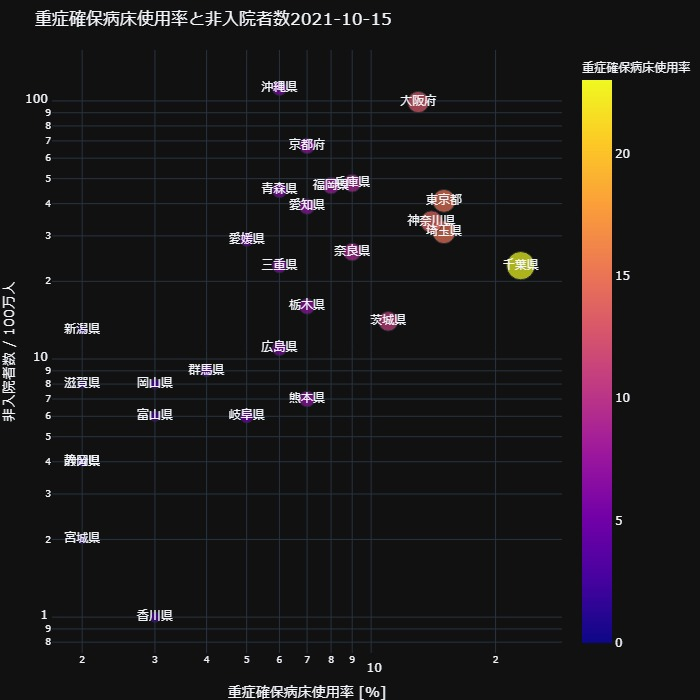
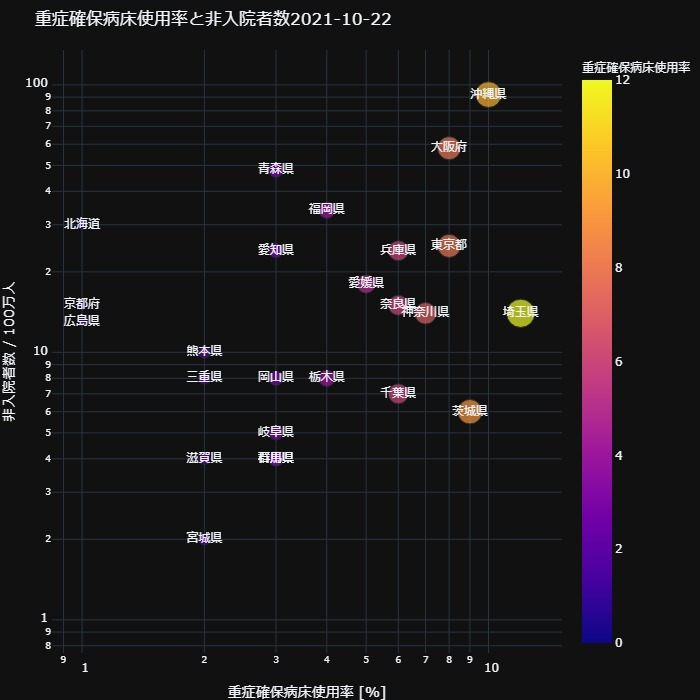
Updated with latest data.

diff --git a/docs/_includes/newpage_00023a.html b/docs/_includes/newpage_00023a.html
@@ -1,1 +1,1 @@
-<div>                            <div id="05f8040f-e205-4a49-960a-4d22efc368e3" class="plotly-graph-div" style="height:700px; width:700px;"></div>            <script type="text/javascript">                                    window.PLOTLYENV=window.PLOTLYENV || {};                                    if (document.getElementById("05f8040f-e205-4a49-960a-4d22efc368e3")) {                    Plotly.newPlot(                        "05f8040f-e205-4a49-960a-4d22efc368e3",                        [{"hovertemplate": "\u91cd\u75c7\u78ba\u4fdd\u75c5\u5e8a\u4f7f\u7528\u7387=%{marker.color}<br>\u975e\u5165\u9662\u6570=%{y}<br>\u90fd\u9053\u5e9c\u770c\u540d=%{text}<extra></extra>", "legendgroup": "", "marker": {"color": [0, 6, 0, 2, 0, 0, 4, 11, 7, 4, 15, 23, 15, 14, 2, 3, 0, 4, 0, 0, 5, 2, 7, 6, 2, 7, 13, 9, 9, 4, 0, 0, 3, 6, 0, 0, 3, 5, 0, 8, 2, 0, 7, 2, 0, 0, 6], "coloraxis": "coloraxis", "size": [0, 6, 0, 2, 0, 0, 4, 11, 7, 4, 15, 23, 15, 14, 2, 3, 0, 4, 0, 0, 5, 2, 7, 6, 2, 7, 13, 9, 9, 4, 0, 0, 3, 6, 0, 0, 3, 5, 0, 8, 2, 0, 7, 2, 0, 0, 6], "sizemode": "area", "sizeref": 0.0575, "symbol": "circle"}, "mode": "markers+text", "name": "", "orientation": "v", "showlegend": false, "text": ["\u5317\u6d77\u9053", "\u9752\u68ee\u770c", "\u5ca9\u624b\u770c", "\u5bae\u57ce\u770c", "\u79cb\u7530\u770c", "\u5c71\u5f62\u770c", "\u798f\u5cf6\u770c", "\u8328\u57ce\u770c", "\u6803\u6728\u770c", "\u7fa4\u99ac\u770c", "\u57fc\u7389\u770c", "\u5343\u8449\u770c", "\u6771\u4eac\u90fd", "\u795e\u5948\u5ddd\u770c", "\u65b0\u6f5f\u770c", "\u5bcc\u5c71\u770c", "\u77f3\u5ddd\u770c", "\u798f\u4e95\u770c", "\u5c71\u68a8\u770c", "\u9577\u91ce\u770c", "\u5c90\u961c\u770c", "\u9759\u5ca1\u770c", "\u611b\u77e5\u770c", "\u4e09\u91cd\u770c", "\u6ecb\u8cc0\u770c", "\u4eac\u90fd\u5e9c", "\u5927\u962a\u5e9c", "\u5175\u5eab\u770c", "\u5948\u826f\u770c", "\u548c\u6b4c\u5c71\u770c", "\u9ce5\u53d6\u770c", "\u5cf6\u6839\u770c", "\u5ca1\u5c71\u770c", "\u5e83\u5cf6\u770c", "\u5c71\u53e3\u770c", "\u5fb3\u5cf6\u770c", "\u9999\u5ddd\u770c", "\u611b\u5a9b\u770c", "\u9ad8\u77e5\u770c", "\u798f\u5ca1\u770c", "\u4f50\u8cc0\u770c", "\u9577\u5d0e\u770c", "\u718a\u672c\u770c", "\u5927\u5206\u770c", "\u5bae\u5d0e\u770c", "\u9e7f\u5150\u5cf6\u770c", "\u6c96\u7e04\u770c"], "type": "scatter", "x": [0, 6, 0, 2, 0, 0, 4, 11, 7, 4, 15, 23, 15, 14, 2, 3, 0, 4, 0, 0, 5, 2, 7, 6, 2, 7, 13, 9, 9, 4, 0, 0, 3, 6, 0, 0, 3, 5, 0, 8, 2, 0, 7, 2, 0, 0, 6], "xaxis": "x", "y": [22, 45, 0, 2, 0, 7, 0, 14, 16, 9, 31, 23, 41, 34, 13, 6, 7, 0, 0, 4, 6, 4, 39, 23, 8, 67, 99, 48, 26, 0, 0, 0, 8, 11, 18, 3, 1, 29, 0, 47, 0, 3, 7, 4, 0, 1, 112], "yaxis": "y"}],                        {"coloraxis": {"colorbar": {"title": {"text": "\u91cd\u75c7\u78ba\u4fdd\u75c5\u5e8a\u4f7f\u7528\u7387"}}, "colorscale": [[0.0, "#0d0887"], [0.1111111111111111, "#46039f"], [0.2222222222222222, "#7201a8"], [0.3333333333333333, "#9c179e"], [0.4444444444444444, "#bd3786"], [0.5555555555555556, "#d8576b"], [0.6666666666666666, "#ed7953"], [0.7777777777777778, "#fb9f3a"], [0.8888888888888888, "#fdca26"], [1.0, "#f0f921"]]}, "height": 700, "legend": {"itemsizing": "constant", "tracegroupgap": 0}, "margin": {"b": 0, "l": 0, "r": 0, "t": 50}, "template": {"data": {"bar": [{"error_x": {"color": "#f2f5fa"}, "error_y": {"color": "#f2f5fa"}, "marker": {"line": {"color": "rgb(17,17,17)", "width": 0.5}}, "type": "bar"}], "barpolar": [{"marker": {"line": {"color": "rgb(17,17,17)", "width": 0.5}}, "type": "barpolar"}], "carpet": [{"aaxis": {"endlinecolor": "#A2B1C6", "gridcolor": "#506784", "linecolor": "#506784", "minorgridcolor": "#506784", "startlinecolor": "#A2B1C6"}, "baxis": {"endlinecolor": "#A2B1C6", "gridcolor": "#506784", "linecolor": "#506784", "minorgridcolor": "#506784", "startlinecolor": "#A2B1C6"}, "type": "carpet"}], "choropleth": [{"colorbar": {"outlinewidth": 0, "ticks": ""}, "type": "choropleth"}], "contour": [{"colorbar": {"outlinewidth": 0, "ticks": ""}, "colorscale": [[0.0, "#0d0887"], [0.1111111111111111, "#46039f"], [0.2222222222222222, "#7201a8"], [0.3333333333333333, "#9c179e"], [0.4444444444444444, "#bd3786"], [0.5555555555555556, "#d8576b"], [0.6666666666666666, "#ed7953"], [0.7777777777777778, "#fb9f3a"], [0.8888888888888888, "#fdca26"], [1.0, "#f0f921"]], "type": "contour"}], "contourcarpet": [{"colorbar": {"outlinewidth": 0, "ticks": ""}, "type": "contourcarpet"}], "heatmap": [{"colorbar": {"outlinewidth": 0, "ticks": ""}, "colorscale": [[0.0, "#0d0887"], [0.1111111111111111, "#46039f"], [0.2222222222222222, "#7201a8"], [0.3333333333333333, "#9c179e"], [0.4444444444444444, "#bd3786"], [0.5555555555555556, "#d8576b"], [0.6666666666666666, "#ed7953"], [0.7777777777777778, "#fb9f3a"], [0.8888888888888888, "#fdca26"], [1.0, "#f0f921"]], "type": "heatmap"}], "heatmapgl": [{"colorbar": {"outlinewidth": 0, "ticks": ""}, "colorscale": [[0.0, "#0d0887"], [0.1111111111111111, "#46039f"], [0.2222222222222222, "#7201a8"], [0.3333333333333333, "#9c179e"], [0.4444444444444444, "#bd3786"], [0.5555555555555556, "#d8576b"], [0.6666666666666666, "#ed7953"], [0.7777777777777778, "#fb9f3a"], [0.8888888888888888, "#fdca26"], [1.0, "#f0f921"]], "type": "heatmapgl"}], "histogram": [{"marker": {"colorbar": {"outlinewidth": 0, "ticks": ""}}, "type": "histogram"}], "histogram2d": [{"colorbar": {"outlinewidth": 0, "ticks": ""}, "colorscale": [[0.0, "#0d0887"], [0.1111111111111111, "#46039f"], [0.2222222222222222, "#7201a8"], [0.3333333333333333, "#9c179e"], [0.4444444444444444, "#bd3786"], [0.5555555555555556, "#d8576b"], [0.6666666666666666, "#ed7953"], [0.7777777777777778, "#fb9f3a"], [0.8888888888888888, "#fdca26"], [1.0, "#f0f921"]], "type": "histogram2d"}], "histogram2dcontour": [{"colorbar": {"outlinewidth": 0, "ticks": ""}, "colorscale": [[0.0, "#0d0887"], [0.1111111111111111, "#46039f"], [0.2222222222222222, "#7201a8"], [0.3333333333333333, "#9c179e"], [0.4444444444444444, "#bd3786"], [0.5555555555555556, "#d8576b"], [0.6666666666666666, "#ed7953"], [0.7777777777777778, "#fb9f3a"], [0.8888888888888888, "#fdca26"], [1.0, "#f0f921"]], "type": "histogram2dcontour"}], "mesh3d": [{"colorbar": {"outlinewidth": 0, "ticks": ""}, "type": "mesh3d"}], "parcoords": [{"line": {"colorbar": {"outlinewidth": 0, "ticks": ""}}, "type": "parcoords"}], "pie": [{"automargin": true, "type": "pie"}], "scatter": [{"marker": {"line": {"color": "#283442"}}, "type": "scatter"}], "scatter3d": [{"line": {"colorbar": {"outlinewidth": 0, "ticks": ""}}, "marker": {"colorbar": {"outlinewidth": 0, "ticks": ""}}, "type": "scatter3d"}], "scattercarpet": [{"marker": {"colorbar": {"outlinewidth": 0, "ticks": ""}}, "type": "scattercarpet"}], "scattergeo": [{"marker": {"colorbar": {"outlinewidth": 0, "ticks": ""}}, "type": "scattergeo"}], "scattergl": [{"marker": {"line": {"color": "#283442"}}, "type": "scattergl"}], "scattermapbox": [{"marker": {"colorbar": {"outlinewidth": 0, "ticks": ""}}, "type": "scattermapbox"}], "scatterpolar": [{"marker": {"colorbar": {"outlinewidth": 0, "ticks": ""}}, "type": "scatterpolar"}], "scatterpolargl": [{"marker": {"colorbar": {"outlinewidth": 0, "ticks": ""}}, "type": "scatterpolargl"}], "scatterternary": [{"marker": {"colorbar": {"outlinewidth": 0, "ticks": ""}}, "type": "scatterternary"}], "surface": [{"colorbar": {"outlinewidth": 0, "ticks": ""}, "colorscale": [[0.0, "#0d0887"], [0.1111111111111111, "#46039f"], [0.2222222222222222, "#7201a8"], [0.3333333333333333, "#9c179e"], [0.4444444444444444, "#bd3786"], [0.5555555555555556, "#d8576b"], [0.6666666666666666, "#ed7953"], [0.7777777777777778, "#fb9f3a"], [0.8888888888888888, "#fdca26"], [1.0, "#f0f921"]], "type": "surface"}], "table": [{"cells": {"fill": {"color": "#506784"}, "line": {"color": "rgb(17,17,17)"}}, "header": {"fill": {"color": "#2a3f5f"}, "line": {"color": "rgb(17,17,17)"}}, "type": "table"}]}, "layout": {"annotationdefaults": {"arrowcolor": "#f2f5fa", "arrowhead": 0, "arrowwidth": 1}, "autotypenumbers": "strict", "coloraxis": {"colorbar": {"outlinewidth": 0, "ticks": ""}}, "colorscale": {"diverging": [[0, "#8e0152"], [0.1, "#c51b7d"], [0.2, "#de77ae"], [0.3, "#f1b6da"], [0.4, "#fde0ef"], [0.5, "#f7f7f7"], [0.6, "#e6f5d0"], [0.7, "#b8e186"], [0.8, "#7fbc41"], [0.9, "#4d9221"], [1, "#276419"]], "sequential": [[0.0, "#0d0887"], [0.1111111111111111, "#46039f"], [0.2222222222222222, "#7201a8"], [0.3333333333333333, "#9c179e"], [0.4444444444444444, "#bd3786"], [0.5555555555555556, "#d8576b"], [0.6666666666666666, "#ed7953"], [0.7777777777777778, "#fb9f3a"], [0.8888888888888888, "#fdca26"], [1.0, "#f0f921"]], "sequentialminus": [[0.0, "#0d0887"], [0.1111111111111111, "#46039f"], [0.2222222222222222, "#7201a8"], [0.3333333333333333, "#9c179e"], [0.4444444444444444, "#bd3786"], [0.5555555555555556, "#d8576b"], [0.6666666666666666, "#ed7953"], [0.7777777777777778, "#fb9f3a"], [0.8888888888888888, "#fdca26"], [1.0, "#f0f921"]]}, "colorway": ["#636efa", "#EF553B", "#00cc96", "#ab63fa", "#FFA15A", "#19d3f3", "#FF6692", "#B6E880", "#FF97FF", "#FECB52"], "font": {"color": "#f2f5fa"}, "geo": {"bgcolor": "rgb(17,17,17)", "lakecolor": "rgb(17,17,17)", "landcolor": "rgb(17,17,17)", "showlakes": true, "showland": true, "subunitcolor": "#506784"}, "hoverlabel": {"align": "left"}, "hovermode": "closest", "mapbox": {"style": "dark"}, "paper_bgcolor": "rgb(17,17,17)", "plot_bgcolor": "rgb(17,17,17)", "polar": {"angularaxis": {"gridcolor": "#506784", "linecolor": "#506784", "ticks": ""}, "bgcolor": "rgb(17,17,17)", "radialaxis": {"gridcolor": "#506784", "linecolor": "#506784", "ticks": ""}}, "scene": {"xaxis": {"backgroundcolor": "rgb(17,17,17)", "gridcolor": "#506784", "gridwidth": 2, "linecolor": "#506784", "showbackground": true, "ticks": "", "zerolinecolor": "#C8D4E3"}, "yaxis": {"backgroundcolor": "rgb(17,17,17)", "gridcolor": "#506784", "gridwidth": 2, "linecolor": "#506784", "showbackground": true, "ticks": "", "zerolinecolor": "#C8D4E3"}, "zaxis": {"backgroundcolor": "rgb(17,17,17)", "gridcolor": "#506784", "gridwidth": 2, "linecolor": "#506784", "showbackground": true, "ticks": "", "zerolinecolor": "#C8D4E3"}}, "shapedefaults": {"line": {"color": "#f2f5fa"}}, "sliderdefaults": {"bgcolor": "#C8D4E3", "bordercolor": "rgb(17,17,17)", "borderwidth": 1, "tickwidth": 0}, "ternary": {"aaxis": {"gridcolor": "#506784", "linecolor": "#506784", "ticks": ""}, "baxis": {"gridcolor": "#506784", "linecolor": "#506784", "ticks": ""}, "bgcolor": "rgb(17,17,17)", "caxis": {"gridcolor": "#506784", "linecolor": "#506784", "ticks": ""}}, "title": {"x": 0.05}, "updatemenudefaults": {"bgcolor": "#506784", "borderwidth": 0}, "xaxis": {"automargin": true, "gridcolor": "#283442", "linecolor": "#506784", "ticks": "", "title": {"standoff": 15}, "zerolinecolor": "#283442", "zerolinewidth": 2}, "yaxis": {"automargin": true, "gridcolor": "#283442", "linecolor": "#506784", "ticks": "", "title": {"standoff": 15}, "zerolinecolor": "#283442", "zerolinewidth": 2}}}, "title": {"text": "\u91cd\u75c7\u78ba\u4fdd\u75c5\u5e8a\u4f7f\u7528\u7387\u3068\u975e\u5165\u9662\u8005\u65702021-10-15"}, "width": 700, "xaxis": {"anchor": "y", "domain": [0.0, 1.0], "title": {"text": "\u91cd\u75c7\u78ba\u4fdd\u75c5\u5e8a\u4f7f\u7528\u7387 [%]"}, "type": "log"}, "yaxis": {"anchor": "x", "domain": [0.0, 1.0], "title": {"text": "\u975e\u5165\u9662\u8005\u6570 / 100\u4e07\u4eba"}, "type": "log"}},                        {"responsive": true}                    )                };                            </script>        </div>
+<div>                            <div id="56806c4f-1517-4ecd-9c09-cc04703af0ce" class="plotly-graph-div" style="height:700px; width:700px;"></div>            <script type="text/javascript">                                    window.PLOTLYENV=window.PLOTLYENV || {};                                    if (document.getElementById("56806c4f-1517-4ecd-9c09-cc04703af0ce")) {                    Plotly.newPlot(                        "56806c4f-1517-4ecd-9c09-cc04703af0ce",                        [{"hovertemplate": "\u91cd\u75c7\u78ba\u4fdd\u75c5\u5e8a\u4f7f\u7528\u7387=%{marker.color}<br>\u975e\u5165\u9662\u6570=%{y}<br>\u90fd\u9053\u5e9c\u770c\u540d=%{text}<extra></extra>", "legendgroup": "", "marker": {"color": [1, 3, 0, 2, 0, 0, 4, 9, 4, 3, 12, 6, 8, 7, 0, 0, 3, 0, 0, 0, 3, 0, 3, 2, 2, 1, 8, 6, 6, 4, 0, 0, 3, 1, 0, 0, 0, 5, 0, 4, 0, 0, 2, 0, 0, 0, 10], "coloraxis": "coloraxis", "size": [1, 3, 0, 2, 0, 0, 4, 9, 4, 3, 12, 6, 8, 7, 0, 0, 3, 0, 0, 0, 3, 0, 3, 2, 2, 1, 8, 6, 6, 4, 0, 0, 3, 1, 0, 0, 0, 5, 0, 4, 0, 0, 2, 0, 0, 0, 10], "sizemode": "area", "sizeref": 0.03, "symbol": "circle"}, "mode": "markers+text", "name": "", "orientation": "v", "showlegend": false, "text": ["\u5317\u6d77\u9053", "\u9752\u68ee\u770c", "\u5ca9\u624b\u770c", "\u5bae\u57ce\u770c", "\u79cb\u7530\u770c", "\u5c71\u5f62\u770c", "\u798f\u5cf6\u770c", "\u8328\u57ce\u770c", "\u6803\u6728\u770c", "\u7fa4\u99ac\u770c", "\u57fc\u7389\u770c", "\u5343\u8449\u770c", "\u6771\u4eac\u90fd", "\u795e\u5948\u5ddd\u770c", "\u65b0\u6f5f\u770c", "\u5bcc\u5c71\u770c", "\u77f3\u5ddd\u770c", "\u798f\u4e95\u770c", "\u5c71\u68a8\u770c", "\u9577\u91ce\u770c", "\u5c90\u961c\u770c", "\u9759\u5ca1\u770c", "\u611b\u77e5\u770c", "\u4e09\u91cd\u770c", "\u6ecb\u8cc0\u770c", "\u4eac\u90fd\u5e9c", "\u5927\u962a\u5e9c", "\u5175\u5eab\u770c", "\u5948\u826f\u770c", "\u548c\u6b4c\u5c71\u770c", "\u9ce5\u53d6\u770c", "\u5cf6\u6839\u770c", "\u5ca1\u5c71\u770c", "\u5e83\u5cf6\u770c", "\u5c71\u53e3\u770c", "\u5fb3\u5cf6\u770c", "\u9999\u5ddd\u770c", "\u611b\u5a9b\u770c", "\u9ad8\u77e5\u770c", "\u798f\u5ca1\u770c", "\u4f50\u8cc0\u770c", "\u9577\u5d0e\u770c", "\u718a\u672c\u770c", "\u5927\u5206\u770c", "\u5bae\u5d0e\u770c", "\u9e7f\u5150\u5cf6\u770c", "\u6c96\u7e04\u770c"], "type": "scatter", "x": [1, 3, 0, 2, 0, 0, 4, 9, 4, 3, 12, 6, 8, 7, 0, 0, 3, 0, 0, 0, 3, 0, 3, 2, 2, 1, 8, 6, 6, 4, 0, 0, 3, 1, 0, 0, 0, 5, 0, 4, 0, 0, 2, 0, 0, 0, 10], "xaxis": "x", "y": [30, 48, 0, 2, 0, 2, 0, 6, 8, 4, 14, 7, 25, 14, 0, 4, 4, 0, 0, 4, 5, 4, 24, 8, 4, 15, 58, 24, 15, 0, 1, 23, 8, 13, 4, 0, 1, 18, 2, 34, 0, 12, 10, 0, 1, 0, 92], "yaxis": "y"}],                        {"coloraxis": {"colorbar": {"title": {"text": "\u91cd\u75c7\u78ba\u4fdd\u75c5\u5e8a\u4f7f\u7528\u7387"}}, "colorscale": [[0.0, "#0d0887"], [0.1111111111111111, "#46039f"], [0.2222222222222222, "#7201a8"], [0.3333333333333333, "#9c179e"], [0.4444444444444444, "#bd3786"], [0.5555555555555556, "#d8576b"], [0.6666666666666666, "#ed7953"], [0.7777777777777778, "#fb9f3a"], [0.8888888888888888, "#fdca26"], [1.0, "#f0f921"]]}, "height": 700, "legend": {"itemsizing": "constant", "tracegroupgap": 0}, "margin": {"b": 0, "l": 0, "r": 0, "t": 50}, "template": {"data": {"bar": [{"error_x": {"color": "#f2f5fa"}, "error_y": {"color": "#f2f5fa"}, "marker": {"line": {"color": "rgb(17,17,17)", "width": 0.5}}, "type": "bar"}], "barpolar": [{"marker": {"line": {"color": "rgb(17,17,17)", "width": 0.5}}, "type": "barpolar"}], "carpet": [{"aaxis": {"endlinecolor": "#A2B1C6", "gridcolor": "#506784", "linecolor": "#506784", "minorgridcolor": "#506784", "startlinecolor": "#A2B1C6"}, "baxis": {"endlinecolor": "#A2B1C6", "gridcolor": "#506784", "linecolor": "#506784", "minorgridcolor": "#506784", "startlinecolor": "#A2B1C6"}, "type": "carpet"}], "choropleth": [{"colorbar": {"outlinewidth": 0, "ticks": ""}, "type": "choropleth"}], "contour": [{"colorbar": {"outlinewidth": 0, "ticks": ""}, "colorscale": [[0.0, "#0d0887"], [0.1111111111111111, "#46039f"], [0.2222222222222222, "#7201a8"], [0.3333333333333333, "#9c179e"], [0.4444444444444444, "#bd3786"], [0.5555555555555556, "#d8576b"], [0.6666666666666666, "#ed7953"], [0.7777777777777778, "#fb9f3a"], [0.8888888888888888, "#fdca26"], [1.0, "#f0f921"]], "type": "contour"}], "contourcarpet": [{"colorbar": {"outlinewidth": 0, "ticks": ""}, "type": "contourcarpet"}], "heatmap": [{"colorbar": {"outlinewidth": 0, "ticks": ""}, "colorscale": [[0.0, "#0d0887"], [0.1111111111111111, "#46039f"], [0.2222222222222222, "#7201a8"], [0.3333333333333333, "#9c179e"], [0.4444444444444444, "#bd3786"], [0.5555555555555556, "#d8576b"], [0.6666666666666666, "#ed7953"], [0.7777777777777778, "#fb9f3a"], [0.8888888888888888, "#fdca26"], [1.0, "#f0f921"]], "type": "heatmap"}], "heatmapgl": [{"colorbar": {"outlinewidth": 0, "ticks": ""}, "colorscale": [[0.0, "#0d0887"], [0.1111111111111111, "#46039f"], [0.2222222222222222, "#7201a8"], [0.3333333333333333, "#9c179e"], [0.4444444444444444, "#bd3786"], [0.5555555555555556, "#d8576b"], [0.6666666666666666, "#ed7953"], [0.7777777777777778, "#fb9f3a"], [0.8888888888888888, "#fdca26"], [1.0, "#f0f921"]], "type": "heatmapgl"}], "histogram": [{"marker": {"colorbar": {"outlinewidth": 0, "ticks": ""}}, "type": "histogram"}], "histogram2d": [{"colorbar": {"outlinewidth": 0, "ticks": ""}, "colorscale": [[0.0, "#0d0887"], [0.1111111111111111, "#46039f"], [0.2222222222222222, "#7201a8"], [0.3333333333333333, "#9c179e"], [0.4444444444444444, "#bd3786"], [0.5555555555555556, "#d8576b"], [0.6666666666666666, "#ed7953"], [0.7777777777777778, "#fb9f3a"], [0.8888888888888888, "#fdca26"], [1.0, "#f0f921"]], "type": "histogram2d"}], "histogram2dcontour": [{"colorbar": {"outlinewidth": 0, "ticks": ""}, "colorscale": [[0.0, "#0d0887"], [0.1111111111111111, "#46039f"], [0.2222222222222222, "#7201a8"], [0.3333333333333333, "#9c179e"], [0.4444444444444444, "#bd3786"], [0.5555555555555556, "#d8576b"], [0.6666666666666666, "#ed7953"], [0.7777777777777778, "#fb9f3a"], [0.8888888888888888, "#fdca26"], [1.0, "#f0f921"]], "type": "histogram2dcontour"}], "mesh3d": [{"colorbar": {"outlinewidth": 0, "ticks": ""}, "type": "mesh3d"}], "parcoords": [{"line": {"colorbar": {"outlinewidth": 0, "ticks": ""}}, "type": "parcoords"}], "pie": [{"automargin": true, "type": "pie"}], "scatter": [{"marker": {"line": {"color": "#283442"}}, "type": "scatter"}], "scatter3d": [{"line": {"colorbar": {"outlinewidth": 0, "ticks": ""}}, "marker": {"colorbar": {"outlinewidth": 0, "ticks": ""}}, "type": "scatter3d"}], "scattercarpet": [{"marker": {"colorbar": {"outlinewidth": 0, "ticks": ""}}, "type": "scattercarpet"}], "scattergeo": [{"marker": {"colorbar": {"outlinewidth": 0, "ticks": ""}}, "type": "scattergeo"}], "scattergl": [{"marker": {"line": {"color": "#283442"}}, "type": "scattergl"}], "scattermapbox": [{"marker": {"colorbar": {"outlinewidth": 0, "ticks": ""}}, "type": "scattermapbox"}], "scatterpolar": [{"marker": {"colorbar": {"outlinewidth": 0, "ticks": ""}}, "type": "scatterpolar"}], "scatterpolargl": [{"marker": {"colorbar": {"outlinewidth": 0, "ticks": ""}}, "type": "scatterpolargl"}], "scatterternary": [{"marker": {"colorbar": {"outlinewidth": 0, "ticks": ""}}, "type": "scatterternary"}], "surface": [{"colorbar": {"outlinewidth": 0, "ticks": ""}, "colorscale": [[0.0, "#0d0887"], [0.1111111111111111, "#46039f"], [0.2222222222222222, "#7201a8"], [0.3333333333333333, "#9c179e"], [0.4444444444444444, "#bd3786"], [0.5555555555555556, "#d8576b"], [0.6666666666666666, "#ed7953"], [0.7777777777777778, "#fb9f3a"], [0.8888888888888888, "#fdca26"], [1.0, "#f0f921"]], "type": "surface"}], "table": [{"cells": {"fill": {"color": "#506784"}, "line": {"color": "rgb(17,17,17)"}}, "header": {"fill": {"color": "#2a3f5f"}, "line": {"color": "rgb(17,17,17)"}}, "type": "table"}]}, "layout": {"annotationdefaults": {"arrowcolor": "#f2f5fa", "arrowhead": 0, "arrowwidth": 1}, "autotypenumbers": "strict", "coloraxis": {"colorbar": {"outlinewidth": 0, "ticks": ""}}, "colorscale": {"diverging": [[0, "#8e0152"], [0.1, "#c51b7d"], [0.2, "#de77ae"], [0.3, "#f1b6da"], [0.4, "#fde0ef"], [0.5, "#f7f7f7"], [0.6, "#e6f5d0"], [0.7, "#b8e186"], [0.8, "#7fbc41"], [0.9, "#4d9221"], [1, "#276419"]], "sequential": [[0.0, "#0d0887"], [0.1111111111111111, "#46039f"], [0.2222222222222222, "#7201a8"], [0.3333333333333333, "#9c179e"], [0.4444444444444444, "#bd3786"], [0.5555555555555556, "#d8576b"], [0.6666666666666666, "#ed7953"], [0.7777777777777778, "#fb9f3a"], [0.8888888888888888, "#fdca26"], [1.0, "#f0f921"]], "sequentialminus": [[0.0, "#0d0887"], [0.1111111111111111, "#46039f"], [0.2222222222222222, "#7201a8"], [0.3333333333333333, "#9c179e"], [0.4444444444444444, "#bd3786"], [0.5555555555555556, "#d8576b"], [0.6666666666666666, "#ed7953"], [0.7777777777777778, "#fb9f3a"], [0.8888888888888888, "#fdca26"], [1.0, "#f0f921"]]}, "colorway": ["#636efa", "#EF553B", "#00cc96", "#ab63fa", "#FFA15A", "#19d3f3", "#FF6692", "#B6E880", "#FF97FF", "#FECB52"], "font": {"color": "#f2f5fa"}, "geo": {"bgcolor": "rgb(17,17,17)", "lakecolor": "rgb(17,17,17)", "landcolor": "rgb(17,17,17)", "showlakes": true, "showland": true, "subunitcolor": "#506784"}, "hoverlabel": {"align": "left"}, "hovermode": "closest", "mapbox": {"style": "dark"}, "paper_bgcolor": "rgb(17,17,17)", "plot_bgcolor": "rgb(17,17,17)", "polar": {"angularaxis": {"gridcolor": "#506784", "linecolor": "#506784", "ticks": ""}, "bgcolor": "rgb(17,17,17)", "radialaxis": {"gridcolor": "#506784", "linecolor": "#506784", "ticks": ""}}, "scene": {"xaxis": {"backgroundcolor": "rgb(17,17,17)", "gridcolor": "#506784", "gridwidth": 2, "linecolor": "#506784", "showbackground": true, "ticks": "", "zerolinecolor": "#C8D4E3"}, "yaxis": {"backgroundcolor": "rgb(17,17,17)", "gridcolor": "#506784", "gridwidth": 2, "linecolor": "#506784", "showbackground": true, "ticks": "", "zerolinecolor": "#C8D4E3"}, "zaxis": {"backgroundcolor": "rgb(17,17,17)", "gridcolor": "#506784", "gridwidth": 2, "linecolor": "#506784", "showbackground": true, "ticks": "", "zerolinecolor": "#C8D4E3"}}, "shapedefaults": {"line": {"color": "#f2f5fa"}}, "sliderdefaults": {"bgcolor": "#C8D4E3", "bordercolor": "rgb(17,17,17)", "borderwidth": 1, "tickwidth": 0}, "ternary": {"aaxis": {"gridcolor": "#506784", "linecolor": "#506784", "ticks": ""}, "baxis": {"gridcolor": "#506784", "linecolor": "#506784", "ticks": ""}, "bgcolor": "rgb(17,17,17)", "caxis": {"gridcolor": "#506784", "linecolor": "#506784", "ticks": ""}}, "title": {"x": 0.05}, "updatemenudefaults": {"bgcolor": "#506784", "borderwidth": 0}, "xaxis": {"automargin": true, "gridcolor": "#283442", "linecolor": "#506784", "ticks": "", "title": {"standoff": 15}, "zerolinecolor": "#283442", "zerolinewidth": 2}, "yaxis": {"automargin": true, "gridcolor": "#283442", "linecolor": "#506784", "ticks": "", "title": {"standoff": 15}, "zerolinecolor": "#283442", "zerolinewidth": 2}}}, "title": {"text": "\u91cd\u75c7\u78ba\u4fdd\u75c5\u5e8a\u4f7f\u7528\u7387\u3068\u975e\u5165\u9662\u8005\u65702021-10-22"}, "width": 700, "xaxis": {"anchor": "y", "domain": [0.0, 1.0], "title": {"text": "\u91cd\u75c7\u78ba\u4fdd\u75c5\u5e8a\u4f7f\u7528\u7387 [%]"}, "type": "log"}, "yaxis": {"anchor": "x", "domain": [0.0, 1.0], "title": {"text": "\u975e\u5165\u9662\u8005\u6570 / 100\u4e07\u4eba"}, "type": "log"}},                        {"responsive": true}                    )                };                            </script>        </div>
